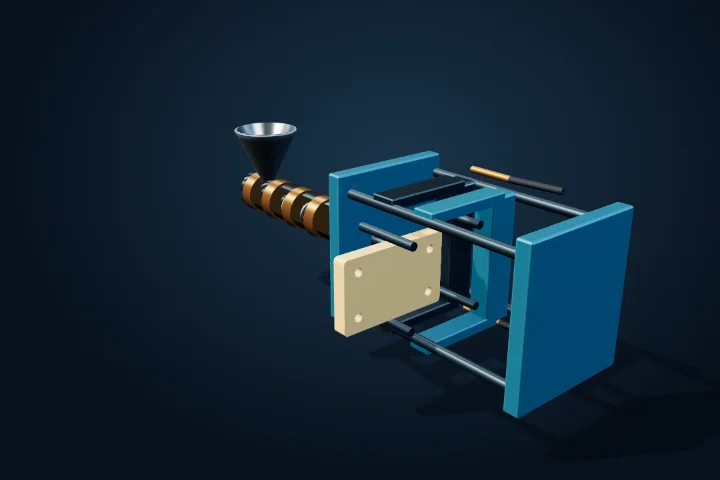
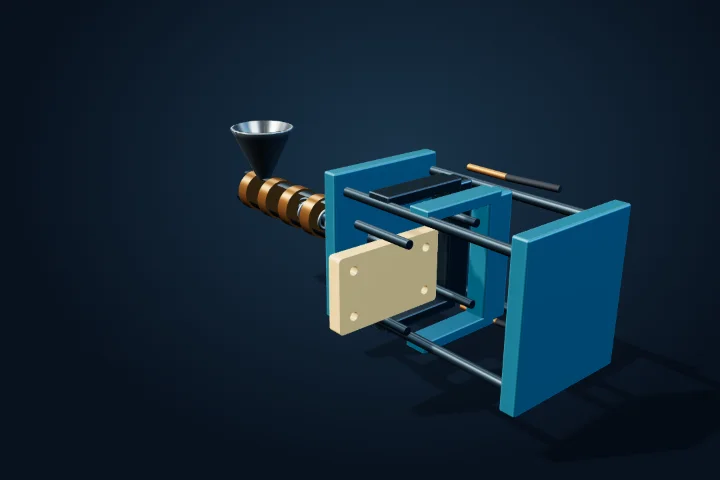
Vincula la carrera del tornillo al volumen inyectado
Corrige dirección y recorrido V/Atornillo en la escena230 y conserva
el tornillo dentro del barril. Retrasa el giro dosificador hasta
después del mantenimiento. Añade comprobación geométrica de carrera
y opción individual en el auditor de sincronía.

Cuatro recorridos completos repetidos en1366/1600/2020DPR1,25/390,
sincronía y holgura axial, portada y barrido sin CDN correctos.
Modelo numérico y criterios sin cambios;612 comprobaciones numéricas
del laboratorio siguen pasando. Documenta el ajuste y sus pruebas.

Changed region(s): [[0.3056, 0.25, 0.8861, 0.875], [0.825, 0.6875, 0.8556, 0.7812], [0.7944, 0.7812, 0.825, 0.8125]]

diff --git a/public/labs/_proc-230.js b/public/labs/_proc-230.js
@@ -1,3 +1,3 @@
 import {THREE,group,base,finish,box,cylinder,rod,lathe,mat,mergeByMaterial,plateShape,extrude,coil,TAU} from './_proceso-piezas.js';
-export function build({scene,mats:m,S,renderer}){renderer.localClippingEnabled=true;const v=base(230,scene,m,S);const barrel=group(v.hero,-1.0,.9,0);const jacket=lathe(barrel,[[.11,-.65],[.15,-.65],[.15,.65],[.11,.65],[.11,-.65]],m.steel,[0,0,0],{fase:.35,arco:4.7});jacket.rotation.z=-Math.PI/2;for(const x of [-.5,-.2,.1,.4]){const q=cylinder(barrel,.17,.12,m.copper,x,0,0);q.rotation.z=Math.PI/2;}const hopper=lathe(barrel,[[.055,0],[.24,.4],[.27,.45],[.24,.46],[.04,.06],[.055,0]],m.aluminum,[-.4,.13,0]);v.screw=group(barrel);rod(v.screw,m.steel,[-.62,0,0],[.5,0,0],.06);const helix=coil(v.screw,m.aluminum,.085,1.08,8);helix.rotation.z=-Math.PI/2;helix.position.x=-.58;mergeByMaterial(v.screw);const nozzle=lathe(barrel,[[.02,0],[.10,0],[.10,.35],[.025,.60],[.02,.60],[.02,0]],m.steel,[.65,0,0]);nozzle.rotation.z=-Math.PI/2;const frame=group(v.hero,.55,.9,-.12);for(const y of [-.43,.43])for(const z of [-.42,.42])rod(frame,m.steel,[-.45,y,z],[1.05,y,z],.035);box(frame,.12,1.12,1.0,m.paint,-.55,0,0);box(frame,.12,1.12,1.0,m.paint,1.12,0,0);mergeByMaterial(frame);v.mould=group(v.hero,.58,.9,0);box(v.mould,.20,.95,.24,m.steel,-.13,0,-.38);for(const y of [-.46,.46])box(v.mould,.20,.08,.70,m.steel,-.13,y,-.03);v.moving=group(v.mould);box(v.moving,.17,.95,.24,m.paint,.25,0,-.38);for(const y of [-.46,.46])box(v.moving,.17,.08,.70,m.paint,.25,y,-.03);const s=plateShape(1.64,1,.06);for(const x of [-.6,.6])for(const y of [-.3,.3]){const h=new THREE.Path();h.absarc(x,y,.06,0,TAU,true);s.holes.push(h);}v.plasticMaterial=mat(0xe6a04d,.15,.23);v.clip=new THREE.Plane(new THREE.Vector3(-1,0,0),0);v.plasticMaterial.clippingPlanes=[v.clip];v.plastic=extrude(v.hero,s,.20,v.plasticMaterial);v.plastic.rotation.y=Math.PI/2;v.plastic.scale.setScalar(.52);v.plastic.position.set(.61,.9,.44);v.plastic.name='pieza-inyectada';for(const z of [-.18,.44])for(const y of [.6,1.2])rod(v.mould,m.steel,[-.2,y-.9,z],[.30,y-.9,z],.031);v.cool=group(v.hero);for(const y of [.35,1.45]){rod(v.cool,m.copper,[.5,y,-.5],[.85,y,-.5],.025);rod(v.cool,m.rubber,[.85,y,-.5],[1.25,y,-.55],.025);}mergeByMaterial(v.cool);v.detail=[barrel,frame,v.mould,v.plastic,v.cool];return finish(v);}
-export function update(v,m){v.screw.position.x=-m.fraction*.14;v.screw.rotation.x=m.age>m.fill?TAU*(m.age-m.fill):0;v.moving.position.x=.46*m.open;v.plastic.position.x=.61+.10*m.eject;v.plastic.position.y=.9-.18*m.eject;v.plasticMaterial.color.setHSL(.08+.42*Math.min(1,(220-m.liveT)/180),.65,.52);v.clip.normal.set(0,0,1);v.clip.constant=-.44+m.front*.0104;v.plastic.visible=m.fraction>.001;}
+export function build({scene,mats:m,S,renderer}){renderer.localClippingEnabled=true;const v=base(230,scene,m,S);const barrel=group(v.hero,-1.0,.9,0);const jacket=lathe(barrel,[[.11,-.65],[.15,-.65],[.15,.65],[.11,.65],[.11,-.65]],m.steel,[0,0,0],{fase:.35,arco:4.7});jacket.rotation.z=-Math.PI/2;for(const x of [-.5,-.2,.1,.4]){const q=cylinder(barrel,.17,.12,m.copper,x,0,0);q.rotation.z=Math.PI/2;}const hopper=lathe(barrel,[[.055,0],[.24,.4],[.27,.45],[.24,.46],[.04,.06],[.055,0]],m.aluminum,[-.4,.13,0]);v.screw=group(barrel);v.screw.name="tornillo-inyeccion";rod(v.screw,m.steel,[-.62,0,0],[.09,0,0],.06);const helix=coil(v.screw,m.aluminum,.085,.71,8);helix.rotation.z=-Math.PI/2;helix.position.x=-.62;mergeByMaterial(v.screw);const nozzle=lathe(barrel,[[.02,0],[.10,0],[.10,.35],[.025,.60],[.02,.60],[.02,0]],m.steel,[.65,0,0]);nozzle.rotation.z=-Math.PI/2;const frame=group(v.hero,.55,.9,-.12);for(const y of [-.43,.43])for(const z of [-.42,.42])rod(frame,m.steel,[-.45,y,z],[1.05,y,z],.035);box(frame,.12,1.12,1.0,m.paint,-.55,0,0);box(frame,.12,1.12,1.0,m.paint,1.12,0,0);mergeByMaterial(frame);v.mould=group(v.hero,.58,.9,0);box(v.mould,.20,.95,.24,m.steel,-.13,0,-.38);for(const y of [-.46,.46])box(v.mould,.20,.08,.70,m.steel,-.13,y,-.03);v.moving=group(v.mould);box(v.moving,.17,.95,.24,m.paint,.25,0,-.38);for(const y of [-.46,.46])box(v.moving,.17,.08,.70,m.paint,.25,y,-.03);const s=plateShape(1.64,1,.06);for(const x of [-.6,.6])for(const y of [-.3,.3]){const h=new THREE.Path();h.absarc(x,y,.06,0,TAU,true);s.holes.push(h);}v.plasticMaterial=mat(0xe6a04d,.15,.23);v.clip=new THREE.Plane(new THREE.Vector3(-1,0,0),0);v.plasticMaterial.clippingPlanes=[v.clip];v.plastic=extrude(v.hero,s,.20,v.plasticMaterial);v.plastic.rotation.y=Math.PI/2;v.plastic.scale.setScalar(.52);v.plastic.position.set(.61,.9,.44);v.plastic.name='pieza-inyectada';for(const z of [-.18,.44])for(const y of [.6,1.2])rod(v.mould,m.steel,[-.2,y-.9,z],[.30,y-.9,z],.031);v.cool=group(v.hero);for(const y of [.35,1.45]){rod(v.cool,m.copper,[.5,y,-.5],[.85,y,-.5],.025);rod(v.cool,m.rubber,[.85,y,-.5],[1.25,y,-.55],.025);}mergeByMaterial(v.cool);v.detail=[barrel,frame,v.mould,v.plastic,v.cool];return finish(v);}
+export function update(v,m){v.screw.position.x=m.fraction*m.stroke*6.8;v.screw.rotation.x=m.age>m.fill+2?TAU*(m.age-m.fill-2):0;v.moving.position.x=.46*m.open;v.plastic.position.x=.61+.10*m.eject;v.plastic.position.y=.9-.18*m.eject;v.plasticMaterial.color.setHSL(.08+.42*Math.min(1,(220-m.liveT)/180),.65,.52);v.clip.normal.set(0,0,1);v.clip.constant=-.44+m.front*.0104;v.plastic.visible=m.fraction>.001;}

diff --git a/docs/continuidad/mecanica-230.md b/docs/continuidad/mecanica-230.md
@@ -45,3 +45,16 @@ Interbloqueo caliente comprobado en la pose de la escena; no implica certificaci
 
 ## Publicación
 Código, push, deploy y login real pendientes. Último publicado confirmado:220.
+
+## Ajuste final del tornillo
+Se corrigió el avance hacia el molde a fracción·V/Atornillo, con escala geométrica6,8 unidades/m correspondiente al diámetro exterior de las hélices. Se acortó la longitud visible para alojar toda la carrera dentro del barril y se inicia la dosificación giratoria después de los2 s de mantenimiento. El informe de sincronía comprueba carrera y extremo dentro del barril. Se repitió correctamente el flujo completo en los cuatro tamaños después de este ajuste; el modelo numérico y los criterios no cambian.
+
+QA 1366×768 DPR1: orden, ensayo, validación, quiz, diagnóstico, instrumento e informe correctos; normales cero=0, sin errores ni desbordamiento.
+
+QA 1600×900 DPR1: orden, ensayo, validación, quiz, diagnóstico, instrumento e informe correctos; normales cero=0, sin errores ni desbordamiento.
+
+QA 2020×1055 DPR1.25: orden, ensayo, validación, quiz, diagnóstico, instrumento e informe correctos; normales cero=0, sin errores ni desbordamiento.
+
+QA 390×844 DPR1: orden, ensayo, validación, quiz, diagnóstico, instrumento e informe correctos; normales cero=0, sin errores ni desbordamiento.
+
+Comprobación final adicional: cuatro recorridos completos, carrera/extremo dentro del barril, sincronía, portada y barrido sin CDN correctos. Pruebas en .salida/proceso-221-230/repeticion-230.json, sincronia-230-final.json y barrido-230-final.json.

diff --git a/docs/continuidad/README.md b/docs/continuidad/README.md
@@ -387,3 +387,10 @@ Encargo cumplido. Código a7b219b2e3d58897bde264d6d6482ba96a5ebe0f; versión f9d
 Código c5d5e93d2adb73f41e07576d03cfc5a097d46d4b; versión 2462ce45-d045-40a6-996e-7e2c82f97c77. No queda trabajo pendiente del encargo211–220. Modelo numérico6229;40 flujos; seis protecciones de calibración; siete comprobaciones de sincronía y dos de movimiento/envolvente;44 suites/3286 pruebas/12 snapshots. Diez portadas y10/10 sin CDN. Login real102/12 confirmado. Las voces anteriores se conservaron; no se añadió narración nueva. No iniciar221 sin nuevo pedido.
 
 [Guía de los diez laboratorios](GUIA-LABS-211-220.md). Para retomar, leer este índice y la ficha del laboratorio antes de editar _fab-N.js o _fabricacion-*.js; no regenerar fuentes históricas sobre escenas mejoradas.
+
+- Ajuste final230: avance del tornillo vinculado al volumen; ver ficha individual. Código768cb52 desplegado y login112/12 confirmado, pero la corrección final aún requiere repetir QA y publicar. No dar la entrega por cerrada todavía.
+
+
+
+
+- Avance QA laboratorio230: 390×844 verificado; cierre y publicación pendientes.
